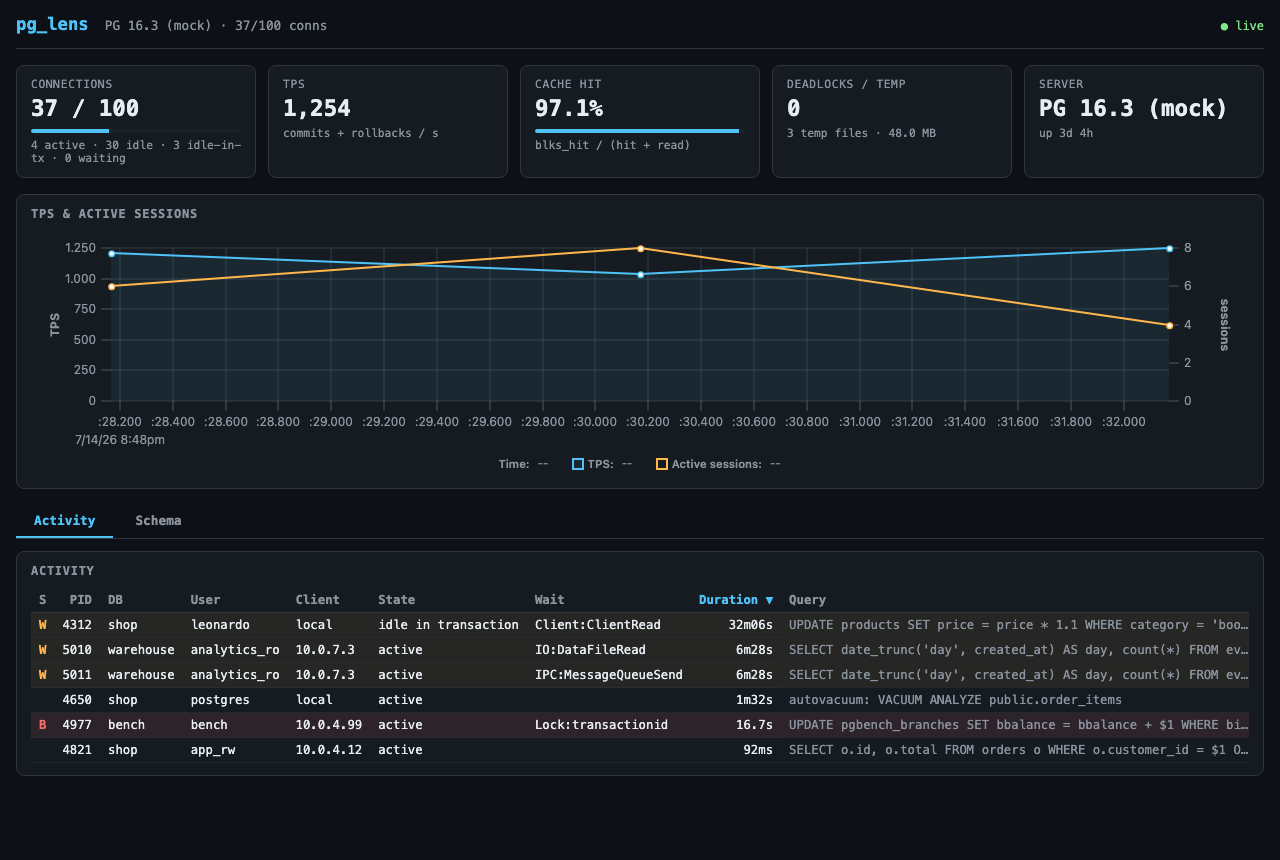
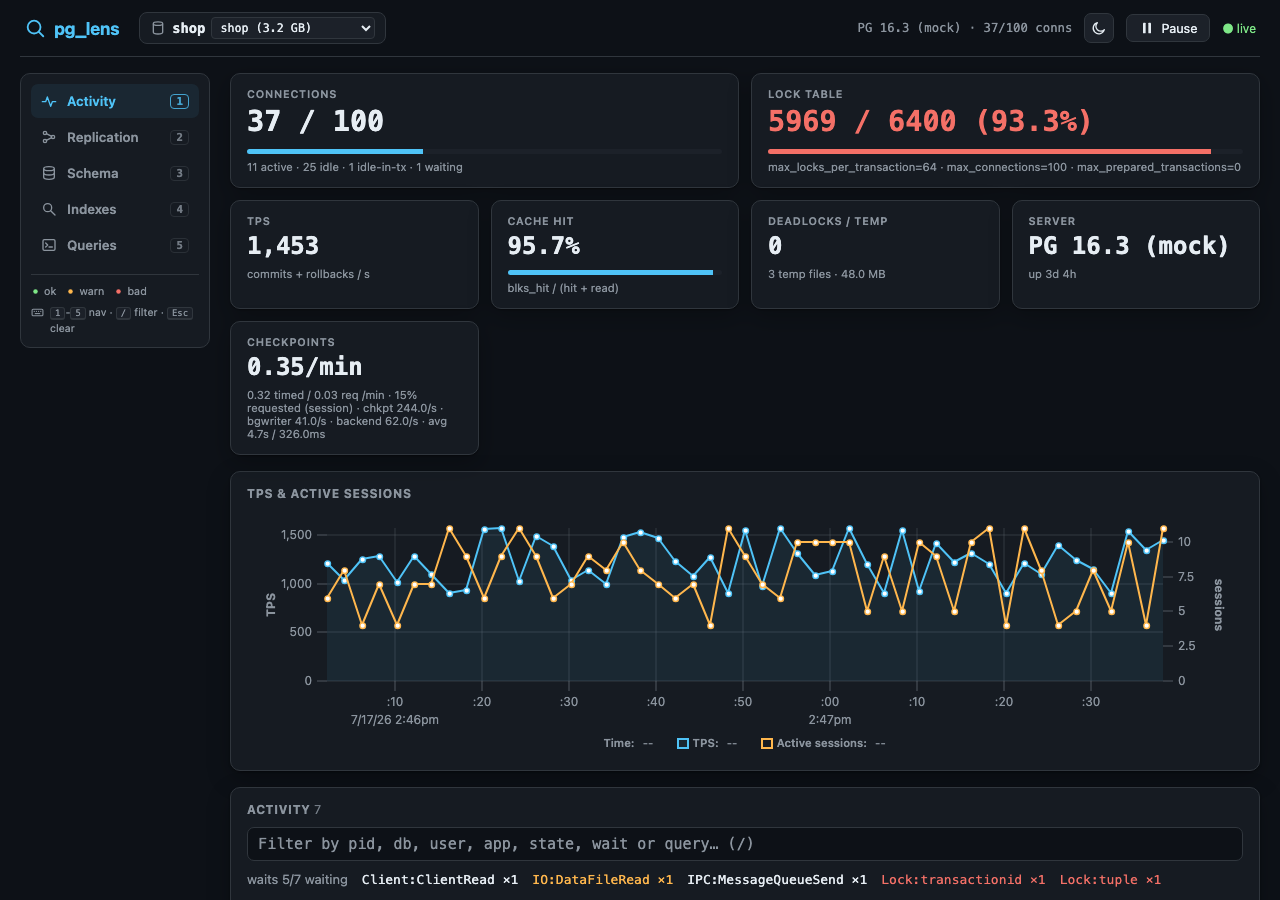
docs: regenerate demo gif + web screenshot for v0.13, fix stale download URLs

diff --git a/README.md b/README.md
@@ -161,9 +161,9 @@ prefer `curl` — browser downloads get the quarantine attribute and
 Gatekeeper will refuse to run the unsigned binary:
 
 ```sh
-# macOS (Apple Silicon)
-curl -L https://github.com/dog-hero/pg_lens/releases/download/v0.7.1/pg_lens-v0.7.1-aarch64-apple-darwin.tar.gz | tar xz
-./pg_lens-v0.7.1-aarch64-apple-darwin/pg_lens --mock
+# macOS (Apple Silicon) — replace v0.13.0 with the latest tag from the releases page
+curl -L https://github.com/dog-hero/pg_lens/releases/download/v0.13.0/pg_lens-v0.13.0-aarch64-apple-darwin.tar.gz | tar xz
+./pg_lens-v0.13.0-aarch64-apple-darwin/pg_lens --mock
 ```
 
 If you already downloaded it with a browser and macOS says the app
@@ -253,13 +253,13 @@ forbids `_` in package names); it installs `/usr/bin/pg_lens` plus docs
 and has no dependencies.
 
 ```sh
-# Debian / Ubuntu (pick amd64 or arm64)
-curl -LO https://github.com/dog-hero/pg_lens/releases/download/v0.7.1/pg-lens_0.7.1_amd64.deb
-sudo dpkg -i pg-lens_0.7.1_amd64.deb
+# Debian / Ubuntu (pick amd64 or arm64) — replace 0.13.0 with the latest release
+curl -LO https://github.com/dog-hero/pg_lens/releases/download/v0.13.0/pg-lens_0.13.0_amd64.deb
+sudo dpkg -i pg-lens_0.13.0_amd64.deb
 
 # RHEL / Fedora / SUSE (x86_64 or aarch64)
-curl -LO https://github.com/dog-hero/pg_lens/releases/download/v0.7.1/pg-lens-0.7.1-1.x86_64.rpm
-sudo rpm -i pg-lens-0.7.1-1.x86_64.rpm    # or: sudo dnf install ./pg-lens-0.7.1-1.x86_64.rpm
+curl -LO https://github.com/dog-hero/pg_lens/releases/download/v0.13.0/pg-lens-0.13.0-1.x86_64.rpm
+sudo rpm -i pg-lens-0.13.0-1.x86_64.rpm    # or: sudo dnf install ./pg-lens-0.13.0-1.x86_64.rpm
 ```
 
 ### Cargo (crates.io)